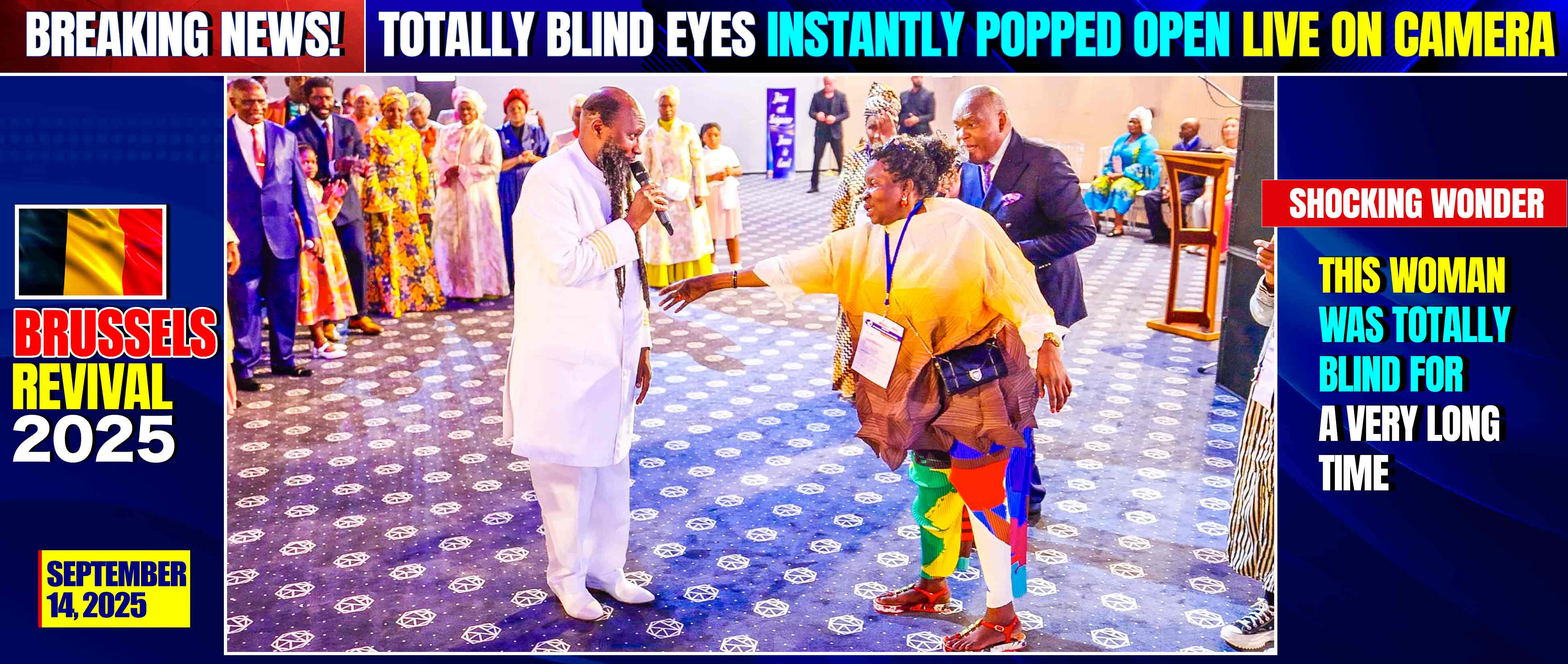
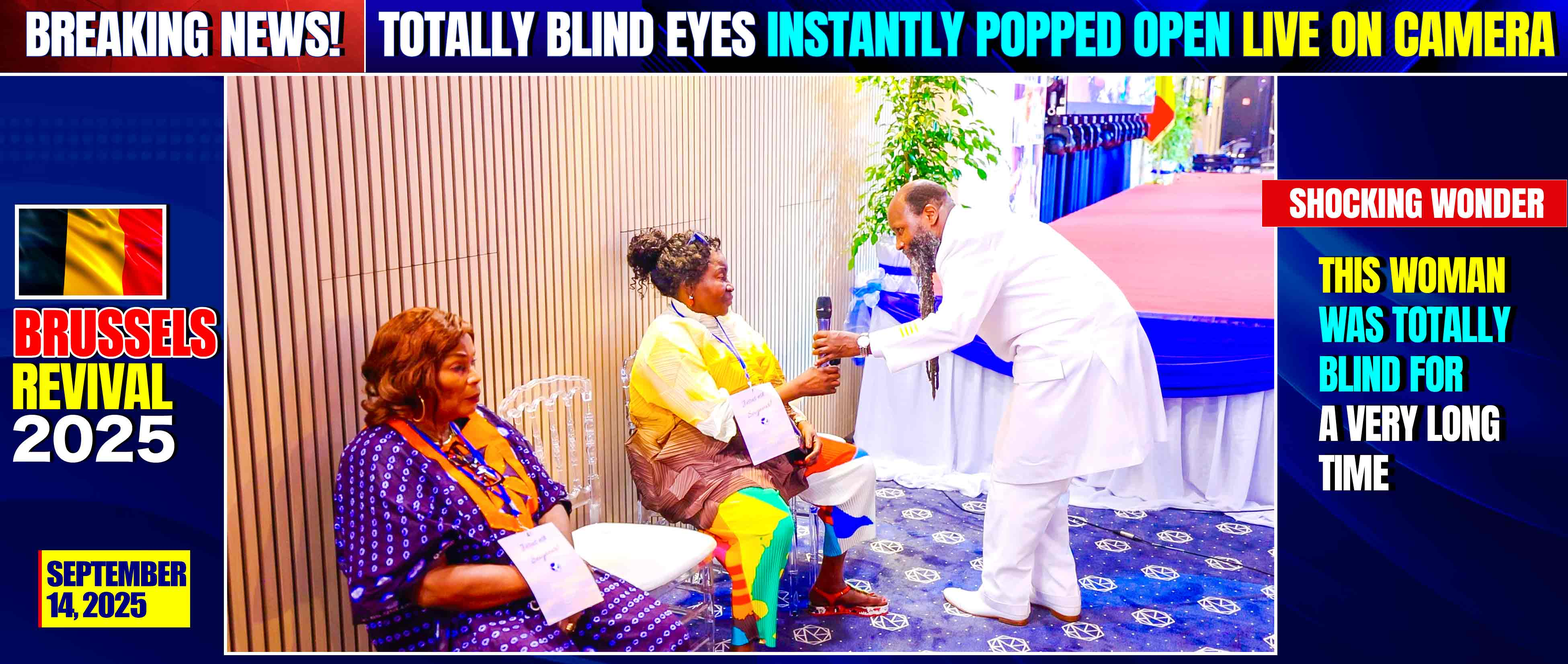
Healing service

diff --git a/index.html b/index.html
@@ -15,6 +15,8 @@
  <img class="slideshow" src= "https://pub-9f92551086574e82abebdc7b9c83cf92.r2.dev/5.%20HEALING%20SERVICE/Crowd-2.jpg" alt="Unstable internet, please refresh the browser">
  <img class="slideshow" src= "https://pub-9f92551086574e82abebdc7b9c83cf92.r2.dev/5.%20HEALING%20SERVICE/Crowd-1.jpg" alt="Unstable internet, please refresh the browser">
  <img class="slideshow" src= "https://pub-9f92551086574e82abebdc7b9c83cf92.r2.dev/Brussels%2C%20Belgium/5.%20HEALING%20SERVICE/Blind-1.jpg" alt="Unstable internet, please refresh the browser">
+ <img class="slideshow" src= "https://pub-9f92551086574e82abebdc7b9c83cf92.r2.dev/Brussels%2C%20Belgium/5.%20HEALING%20SERVICE/Blind-2.jpg" alt="Unstable internet, please refresh the browser">
+ <img class="slideshow" src= "https://pub-9f92551086574e82abebdc7b9c83cf92.r2.dev/Brussels%2C%20Belgium/5.%20HEALING%20SERVICE/Blind-3.jpg" alt="Unstable internet, please refresh the browser">
  
 
 
